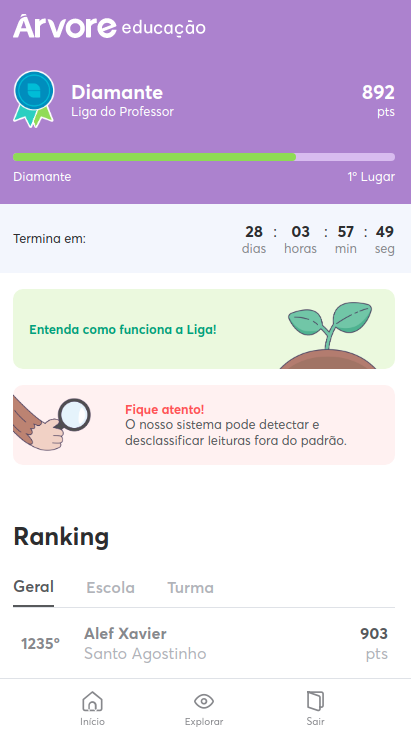
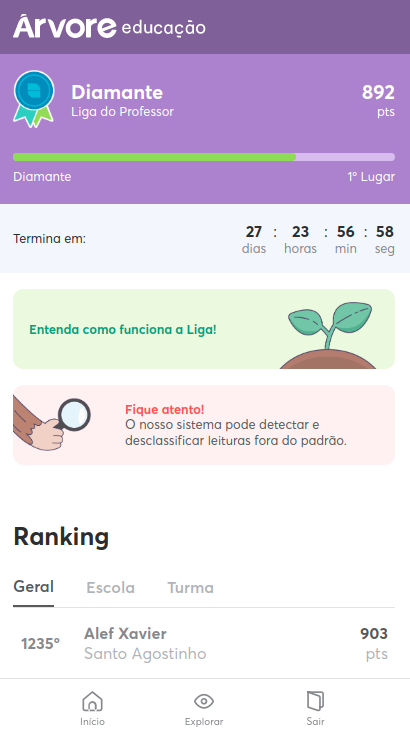
style

diff --git a/src/components/site/header/Header.js b/src/components/site/header/Header.js
@@ -80,17 +80,17 @@ const Header = props => {
             </DropdownEnd>
           </PlatformsDropdownContainer>
         )}
-        <RoundButtonStyled
-          style={{
-            marginRight: 8
-          }}
-          iconName="bell"
-          numberOfNotifications="10"
-          onClick={() => console.log('news')}
-          bgColor={colors.white}
-          borderColor={colors.white}
-          iconColor={props.bgColor || colors.blue3}
-        />
+        {/*<RoundButtonStyled*/}
+        {/*  style={{*/}
+        {/*    marginRight: 8*/}
+        {/*  }}*/}
+        {/*  iconName="bell"*/}
+        {/*  numberOfNotifications="10"*/}
+        {/*  onClick={() => console.log('news')}*/}
+        {/*  bgColor={colors.white}*/}
+        {/*  borderColor={colors.white}*/}
+        {/*  iconColor={props.bgColor || colors.blue3}*/}
+        {/*/>*/}
         {!props.leagueHeader && (
           <>
             <ClickOutside onClickOutside={() => setUserDropdown(false)}>
@@ -121,7 +121,7 @@ const Header = props => {
       </ContainerMenu>
       <MenuMobile>
         <ContainerItemMenu>
-          <ItemMenu as={Link} to={ROOT_PATH}>
+          <ItemMenu as={Link} to={SITE_PATH}>
             <FontIcon
               iconName="home"
               size={15}

diff --git a/src/screens/league/League.js b/src/screens/league/League.js
@@ -8,7 +8,7 @@ const League = () => {
   const [currentPoints, setCurrentPoints] = useState(892)
   return (
     <>
-      <Header leagueHeader bgColor={colors.purple3} />
+      <Header leagueHeader bgColor={colors.purple4} />
       <Wrapper>
         <LeagueBoards currentPoints={currentPoints} />
       </Wrapper>

diff --git a/src/config/ui.js b/src/config/ui.js
@@ -65,6 +65,7 @@ export const colors = {
   red1Light: `hsl(0, 86%, ${97 + lightness}%)`,
 
   purple3: `hsl(271, 47%, 66%)`,
+  purple4: '#7e5f9b' ,
   purple3Dark: `hsl(271, 47%, ${66 - lightness}%)`,
   purple3Light: `hsl(271, 47%, ${66 + lightness}%)`,
   purple2: `hsl(271, 66%, 84%)`,

diff --git a/src/screens/league-tutorial/LeagueTutorial.js b/src/screens/league-tutorial/LeagueTutorial.js
@@ -113,7 +113,7 @@ class LeagueTutorial extends Component {
   render() {
     return (
       <>
-        <Header leagueHeader bgColor={colors.purple3} />
+        <Header leagueHeader bgColor={colors.purple4} />
         <Spacing />
         <Grid>
           <Row>
